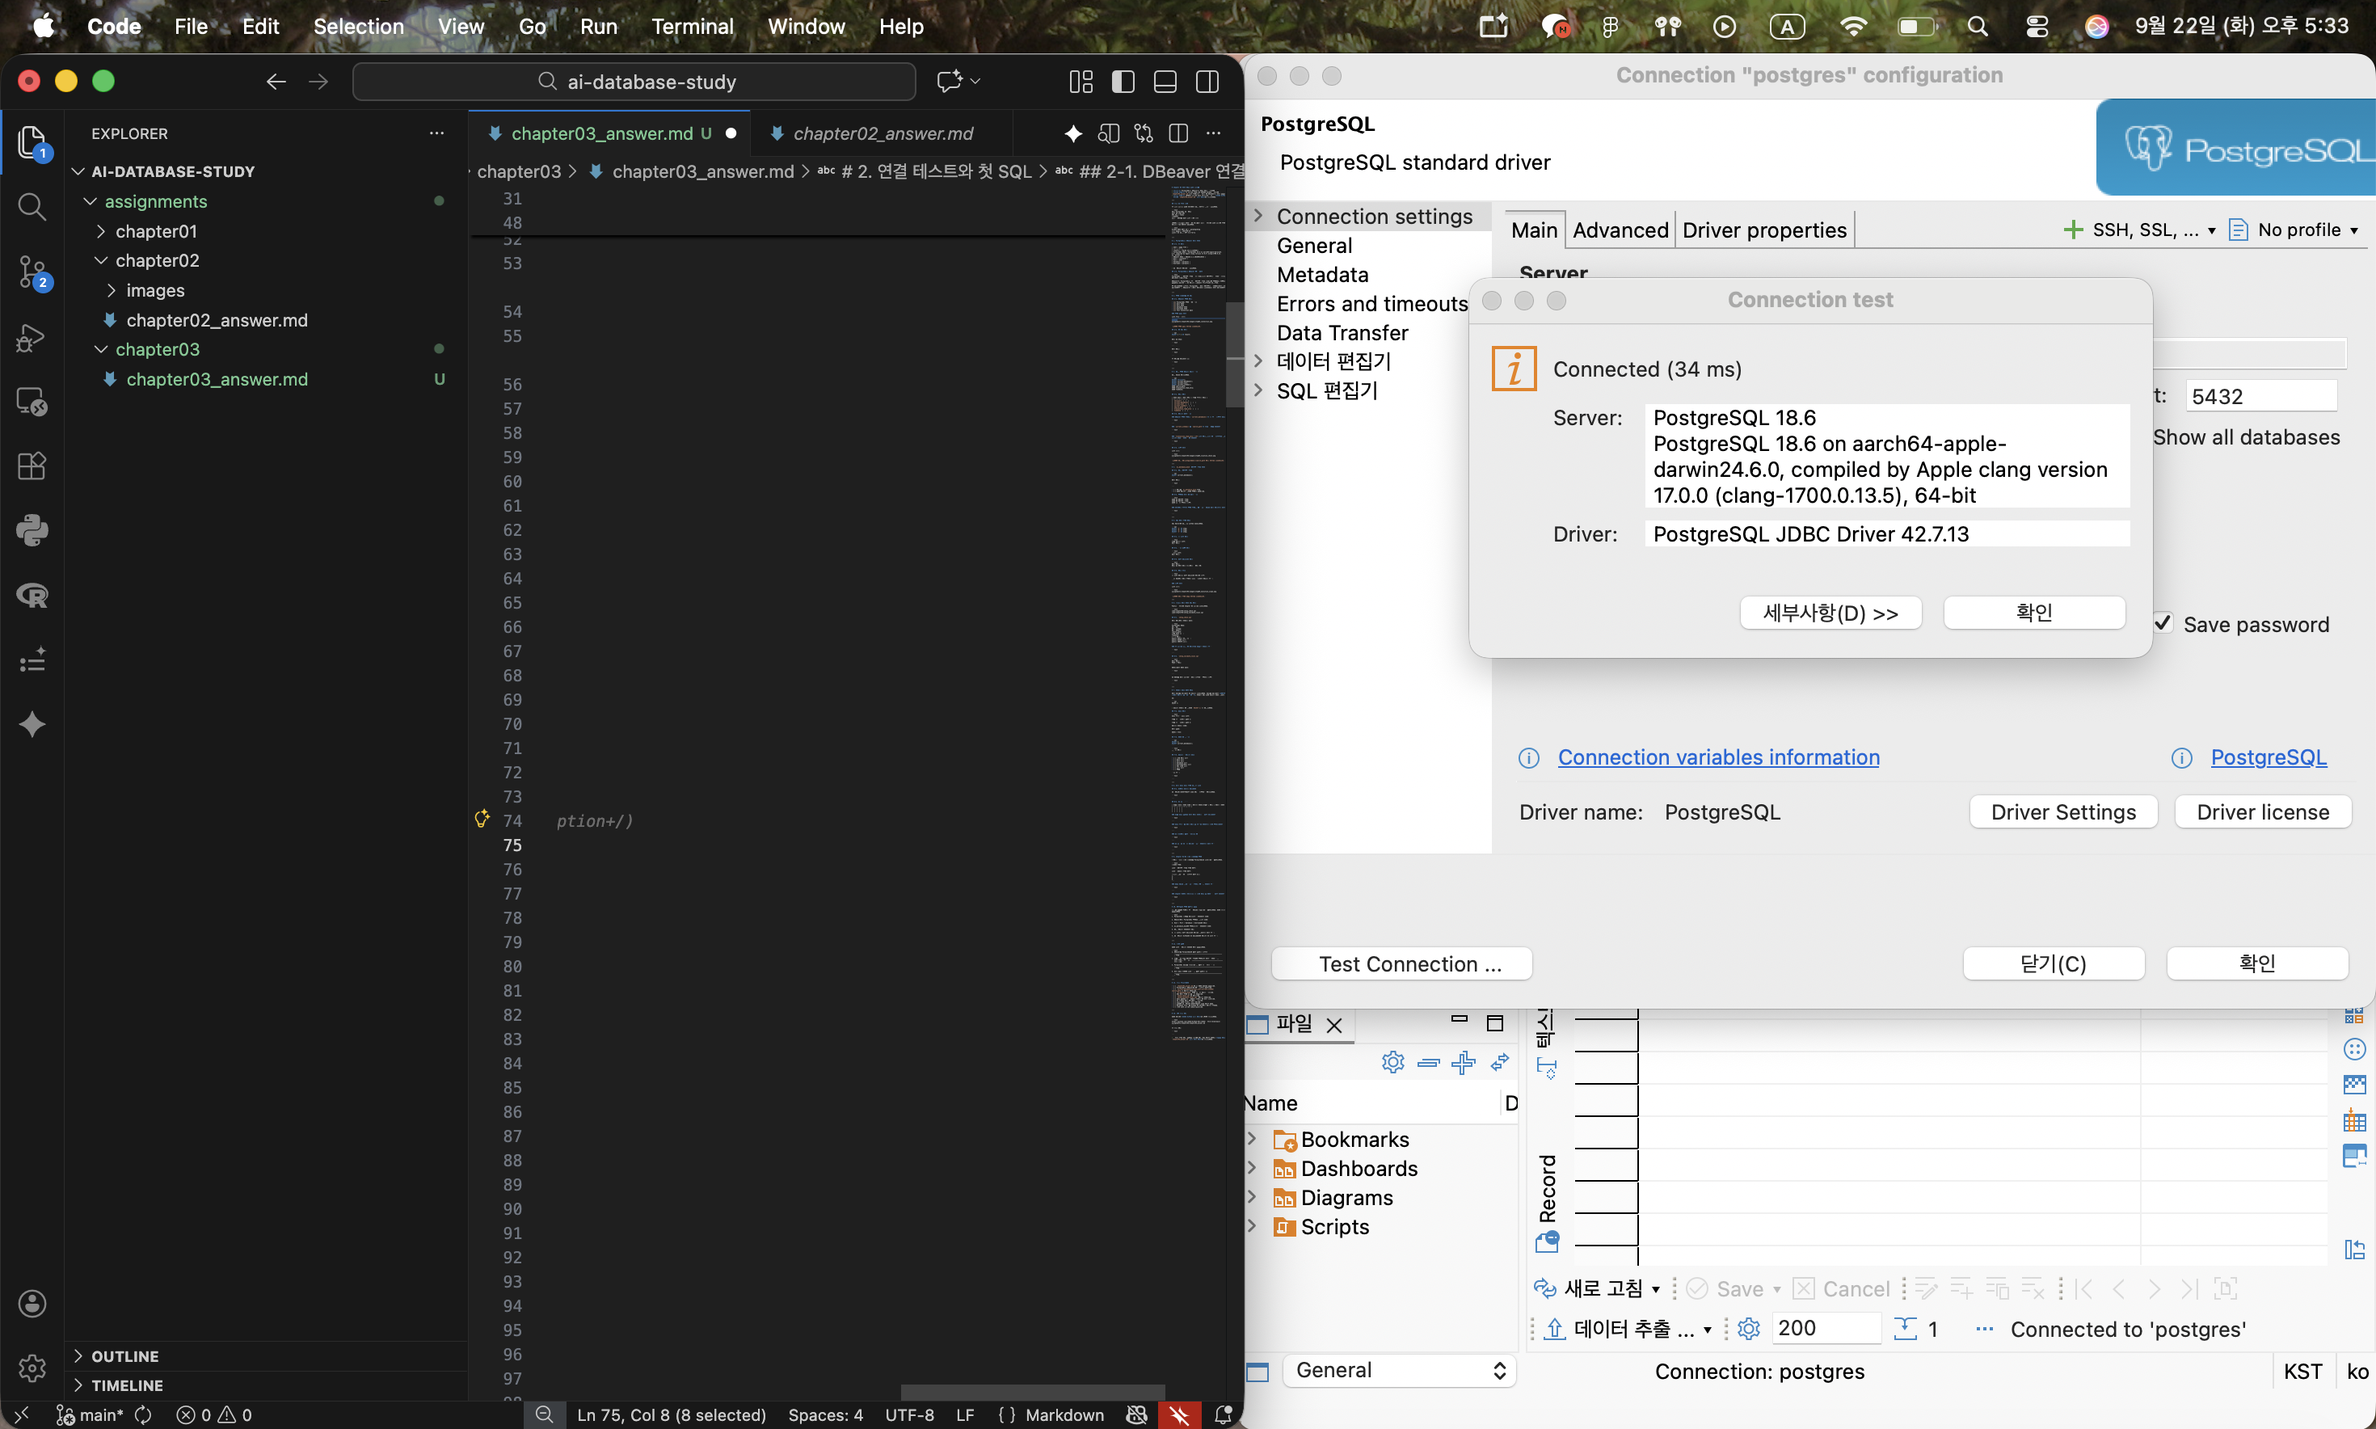
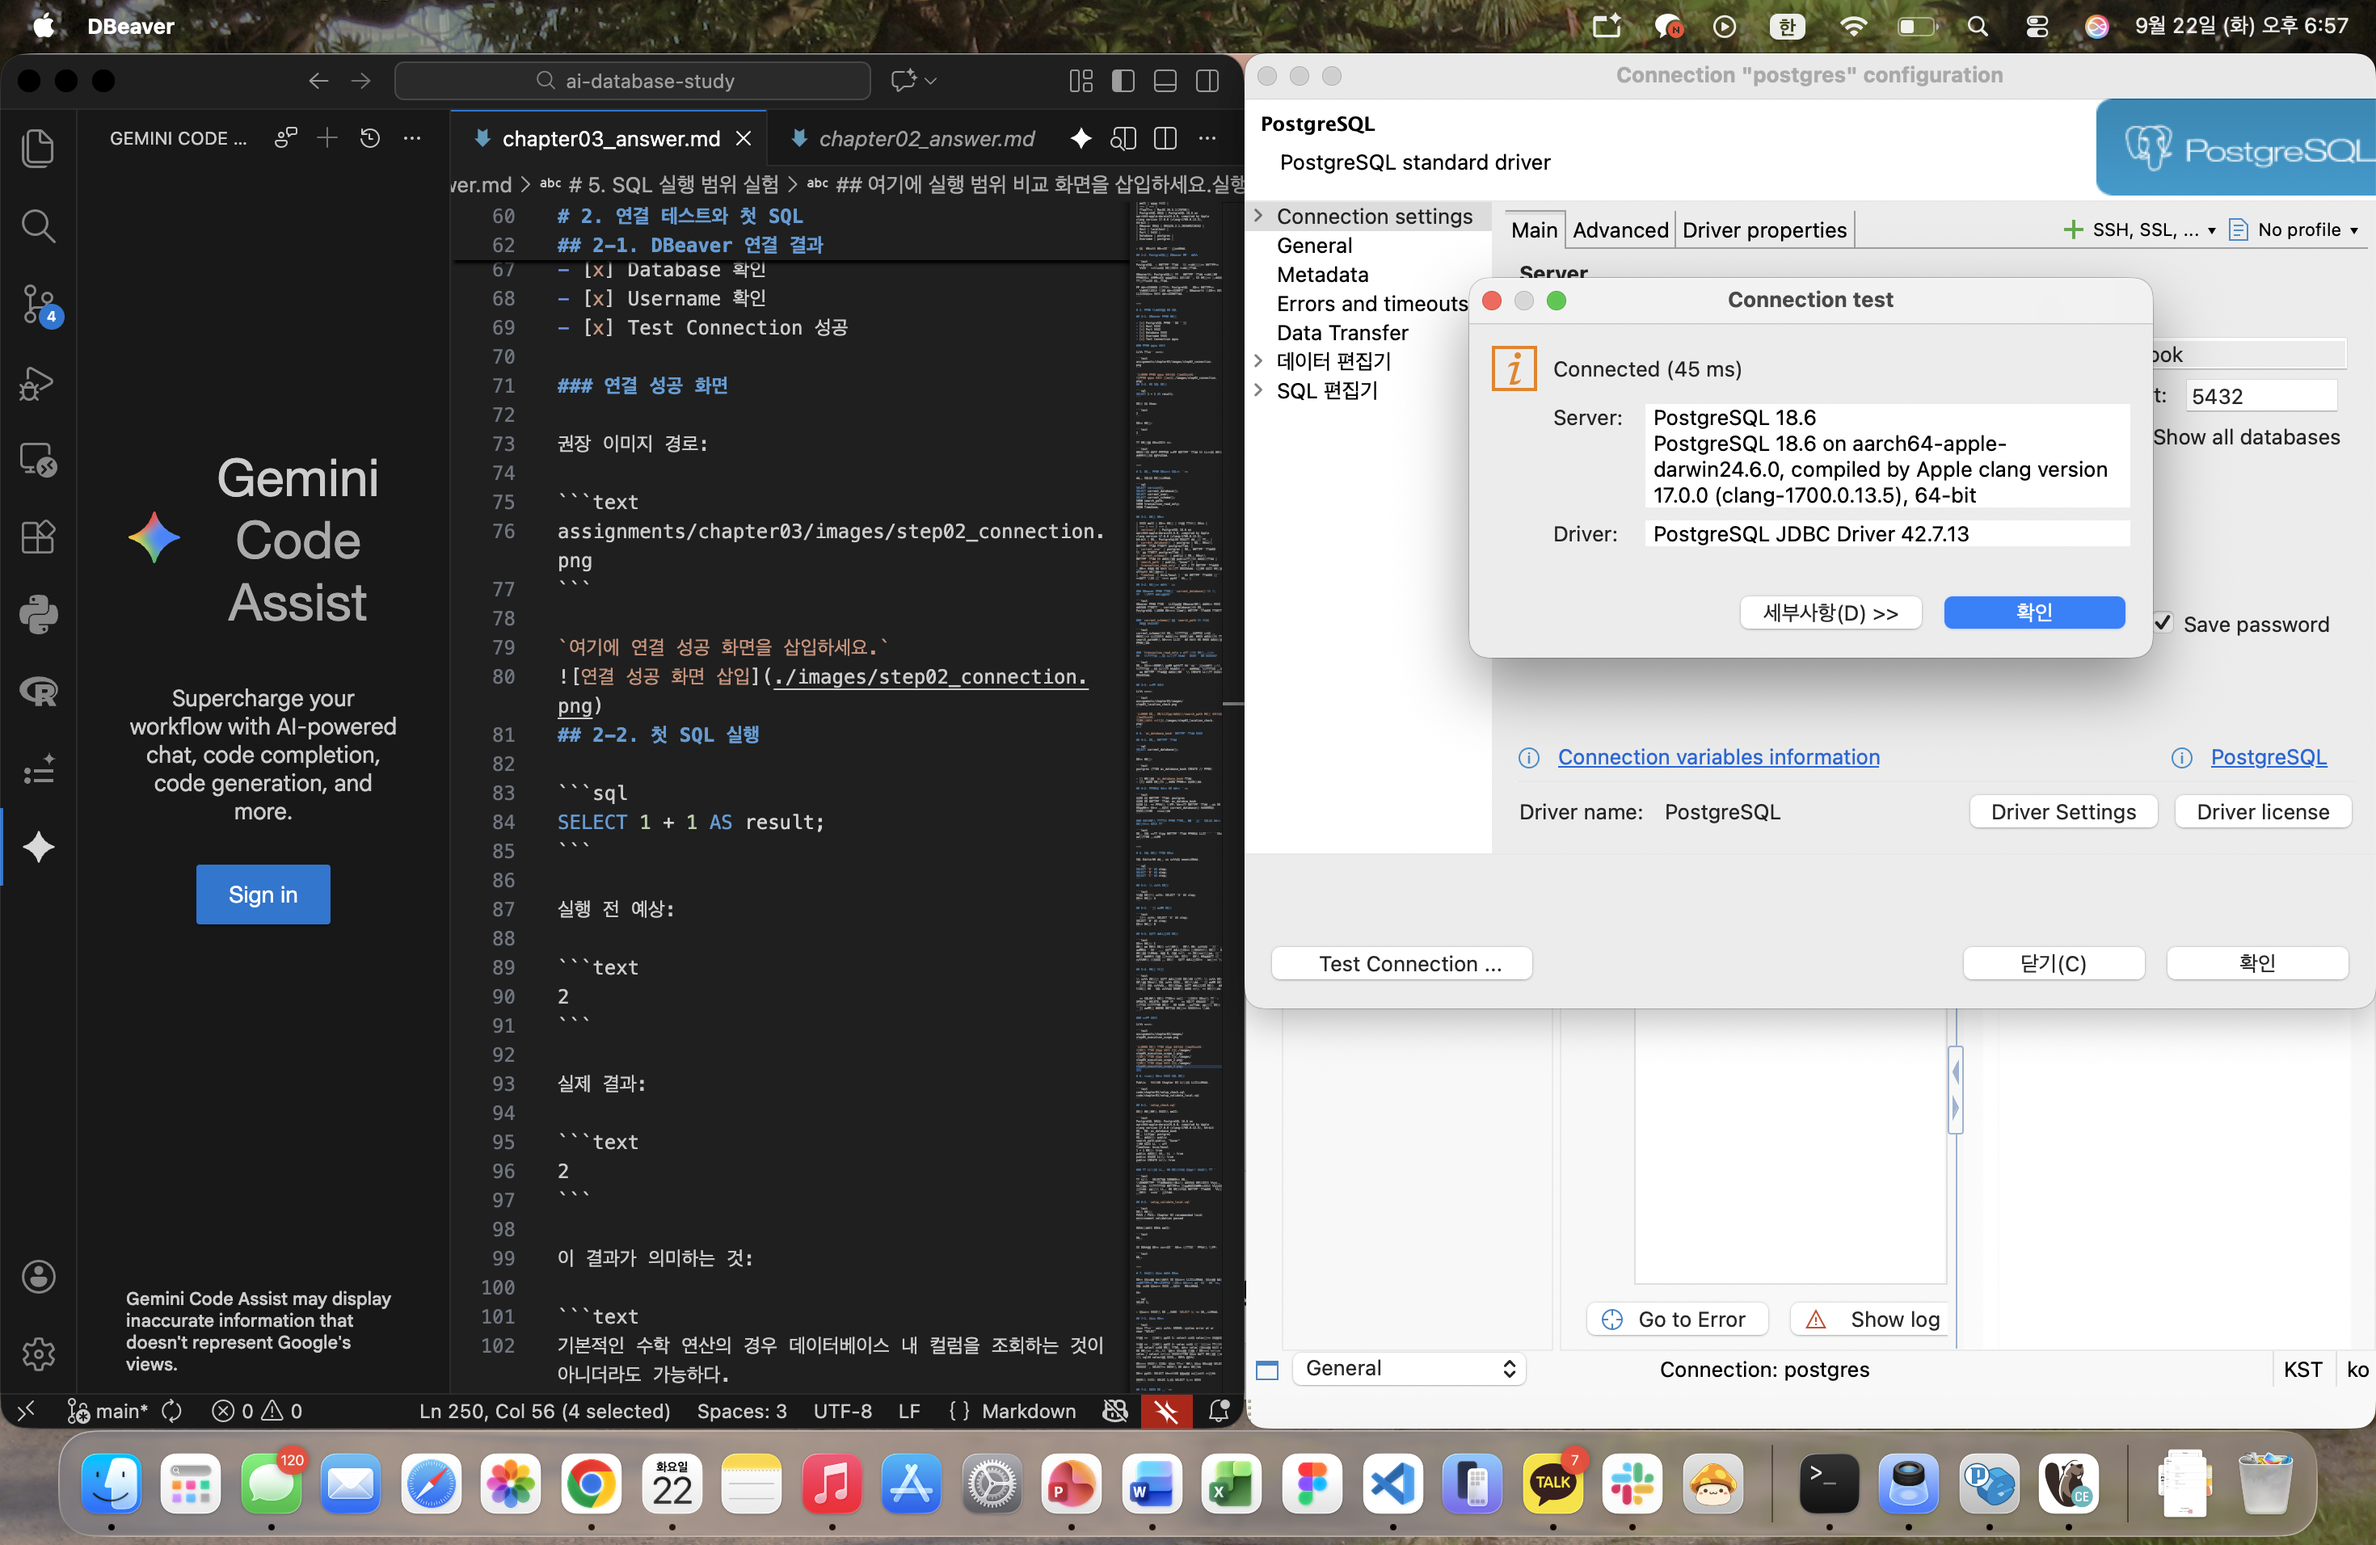
Complete chapter03 assignment

diff --git a/assignments/chapter03/chapter03_answer.md b/assignments/chapter03/chapter03_answer.md
@@ -244,7 +244,7 @@ SELECT 'B' AS step;
 assignments/chapter03/images/step05_execution_scope.png
 ```
 
-`여기에 실행 범위 비교 화면을 삽입하세요.`
+`여기에 실행 범위 비교 화면을 삽입하세요. (캡처 오류로 Dock 부분이 잘렸습니다.)`
 ![실행 범위 비교 화면 1](./images/step05_execution_scope_1.png)
 ![실행 범위 비교 화면 2](./images/step05_execution_scope_2.png)
 ![실행 범위 비교 화면 3](./images/step05_execution_scope_3.png)
